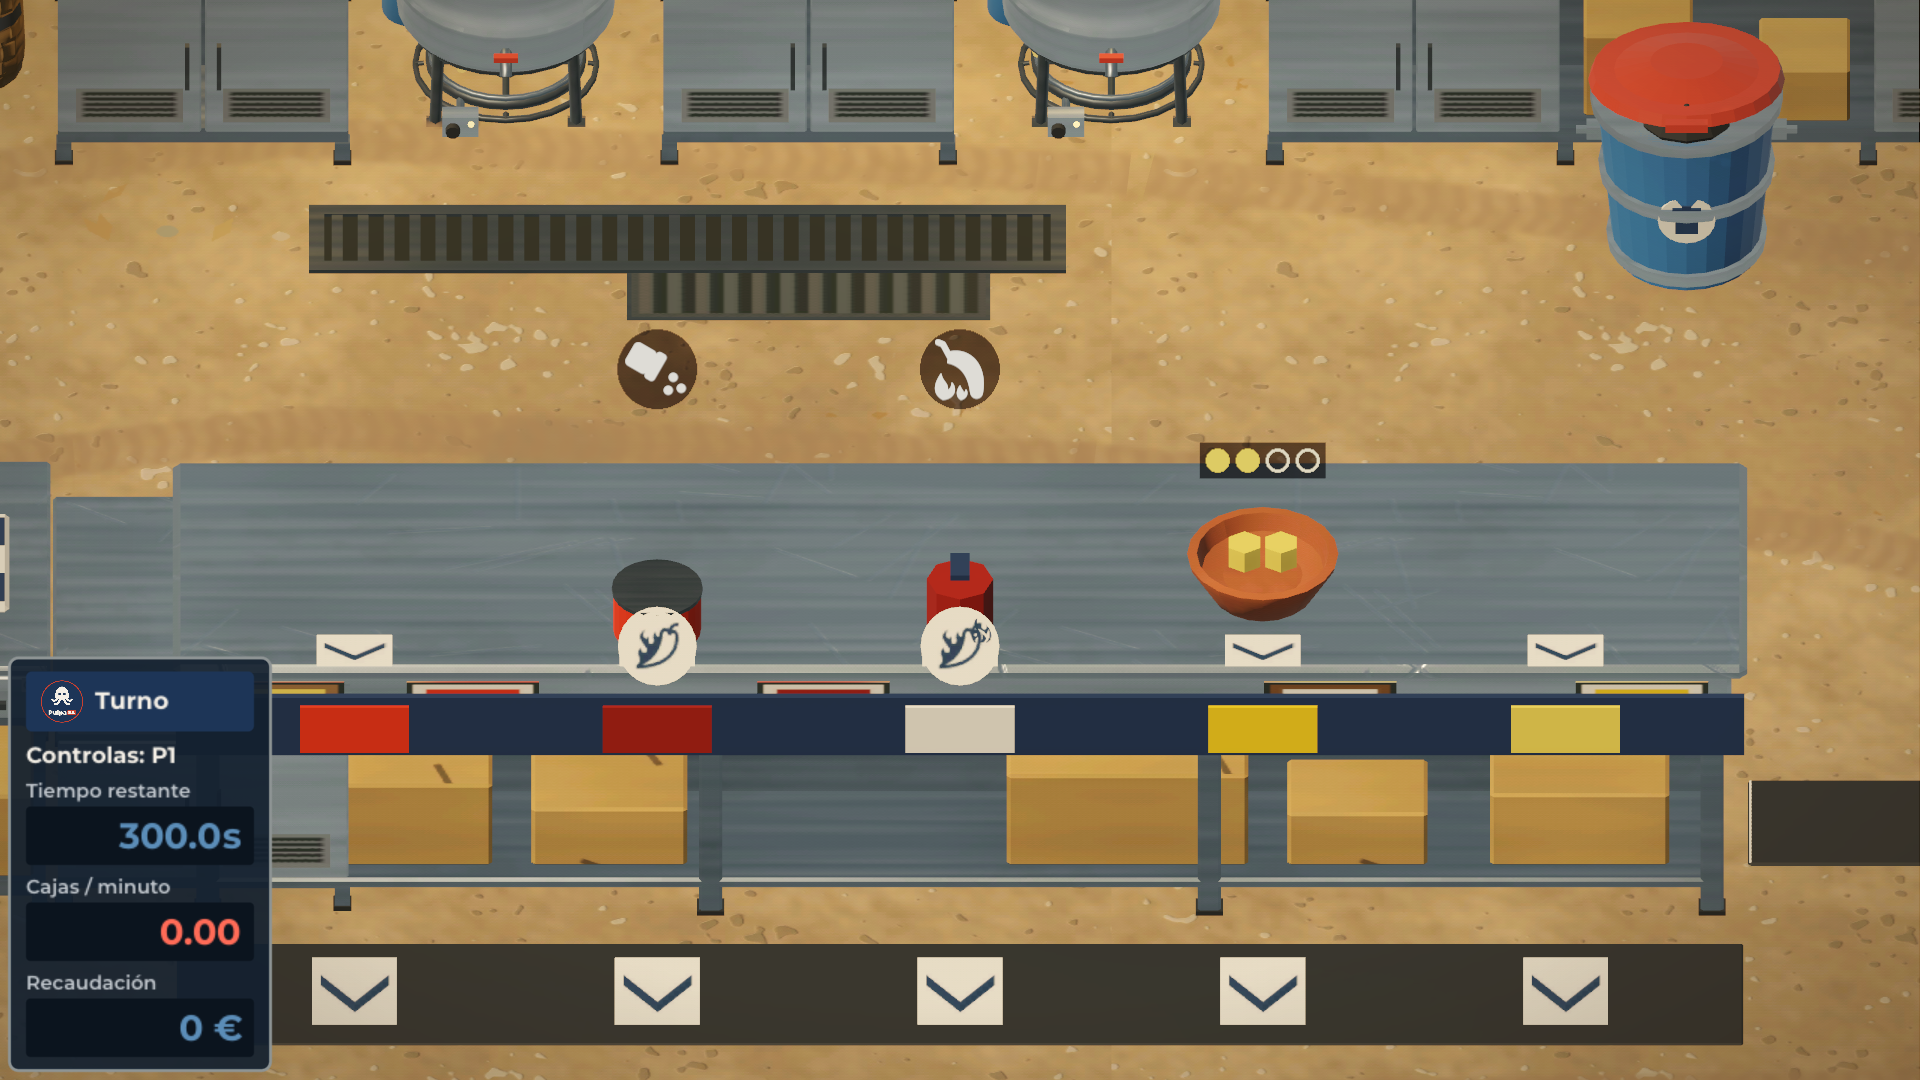
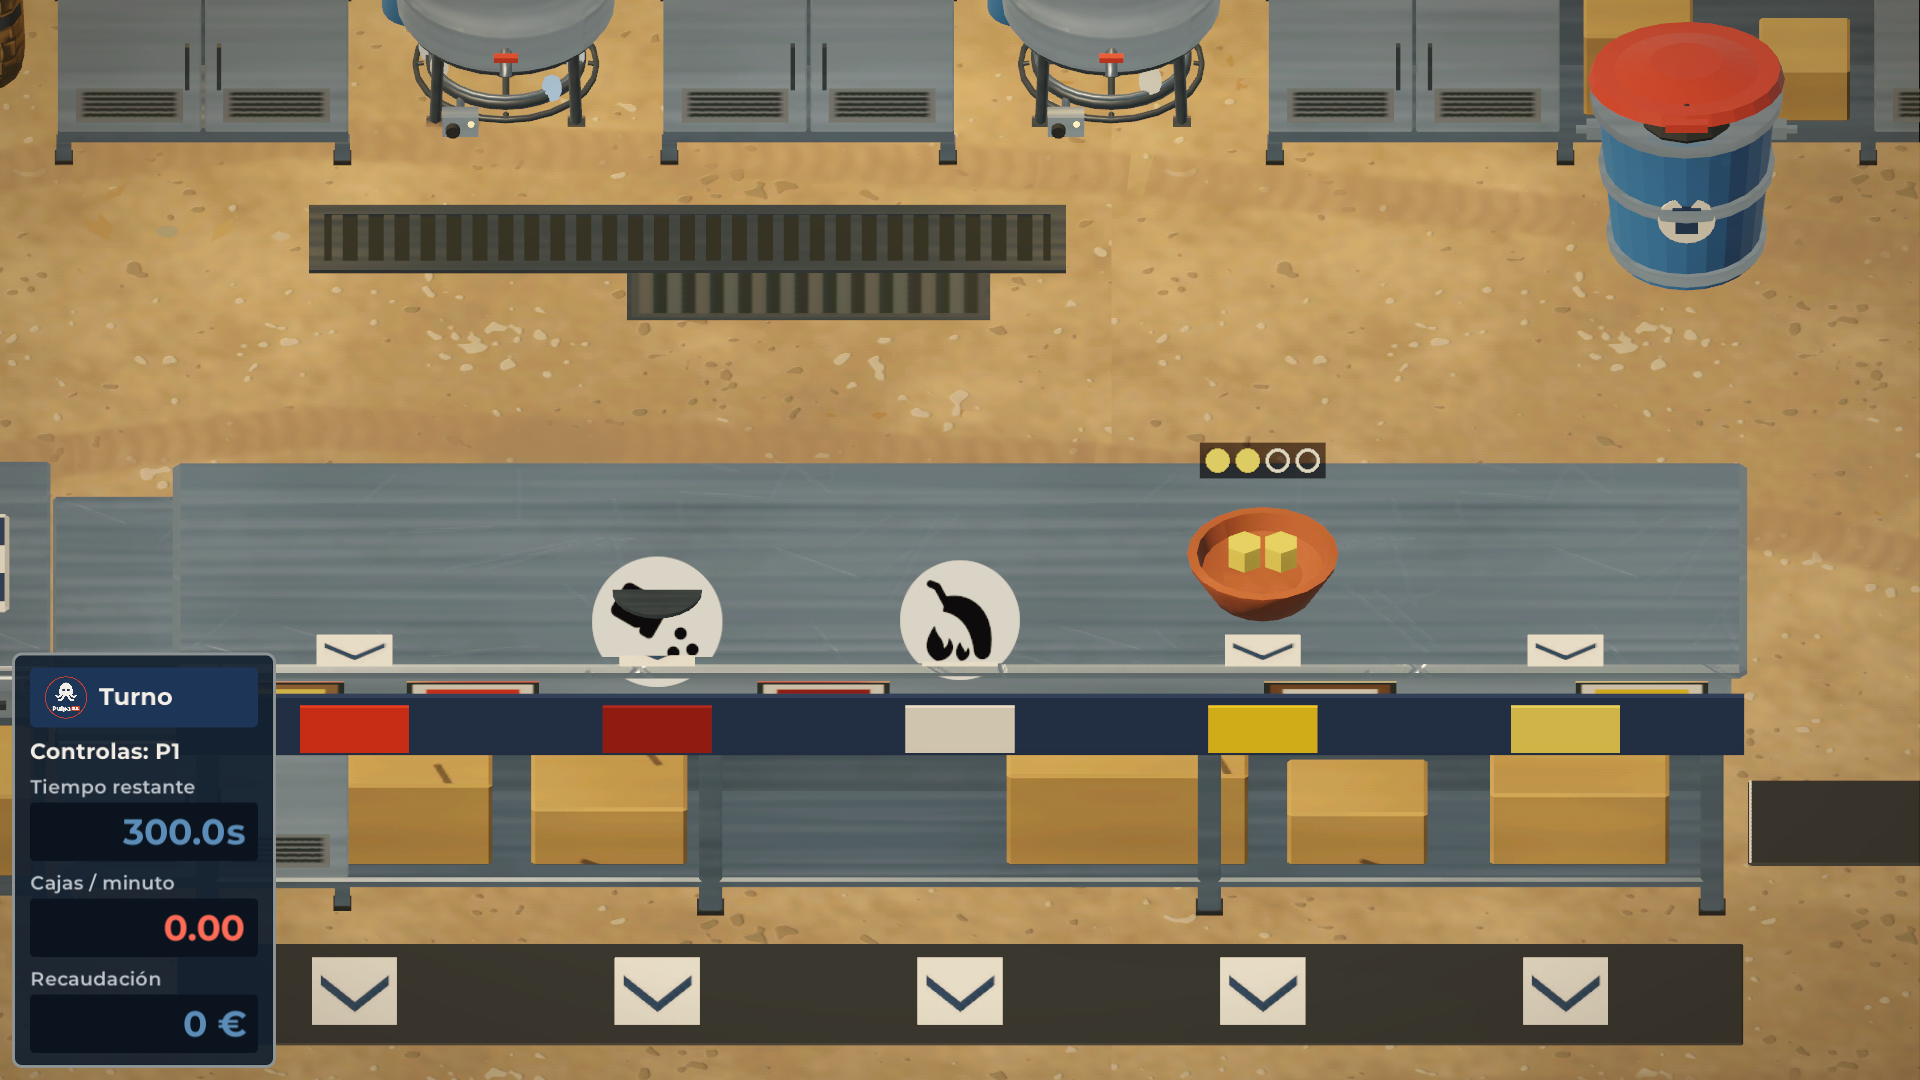
feat(PUL-126): revisión (icono propio en el frontal del dispensador, hot_mark a la llama, aserciones transitorias)

diff --git a/docs/backlog/PUL-126-verbo-en-la-estacion-de-condimentos-y-cuenco-que-s.md b/docs/backlog/PUL-126-verbo-en-la-estacion-de-condimentos-y-cuenco-que-s.md
@@ -43,9 +43,9 @@ ADR-006 §4.1, `signals.md`, `scene-tree.md` §9). Partición original y notas d
 ## Plan
 Ficheros (todos en `owns` / `touches_scenes`):
 - `resources/seasoning_data.gd`: `@export var verb: StringName`. `data/seasonings/*.tres`: `verb` (`season_sweet`, `season_hot`, `cachelos`); `icon` de dulce y picante = `icon_verb_season_sweet.svg` / `icon_verb_season_hot.svg`.
-- `data/config/box_badges.tres`: `hot_mark` = `icon_verb_season_hot.svg` (pendiente heredado).
+- `data/config/box_badges.tres`: `hot_mark` se queda en la llama `small-fire.svg` (decisión del producer: el icono propio ya distingue; la llama es acento).
 - `resources/seasoning_station_data.gd` + `data/config/seasoning_station.tres`: baja `toggle_guard`; alta de los datos del medidor (`stock_notch_px` 24, hueco, contorno, colores, opacidad de la placa).
-- `entities/stations/seasoning_dispenser.gd`: `_resolve` → `ActionRules.for_dispenser`; `get_action_hint`; `can_interact` = `is_target()`; `interact` ejecuta la rama del hint (`OK` aplica y gesto, `BLOCKED` emite `rejected` y consume, `NONE` `false`); `is_reachable_from` = solo el lado.
+- `entities/stations/seasoning_dispenser.gd`: placa con `seasoning.icon` sobre el cartel baked del frontal (se oculta el cartel `seasoning_signs`); `_resolve` → `ActionRules.for_dispenser`; `get_action_hint`; `can_interact` = `is_target()`; `interact` ejecuta la rama del hint (`OK` aplica y gesto, `BLOCKED` emite `rejected` y consume, `NONE` `false`); `is_reachable_from` = solo el lado.
 - `entities/stations/cachelos_bowl.gd` + `cachelos_bowl.tscn`: `_resolve` → `ActionRules.for_bowl`; solo pone (`Box.apply_seasoning`), repone si `stock + 2 <= 4`; sin `_toggle`, `toggle_guard` ni reloj; `%StockMeter` (`Sprite3D` billboard, textura generada por `build_meter_image`); `stock` con setter que refresca modelo y medidor.
 - Señales: ninguna nueva ni cambiada. `rejected(SeasoningRules.Rejection)` local sigue (dispensador: `BOX_NOT_FULL`, `ALREADY_APPLIED`; cuenco: además `BOWL_EMPTY`, `BOWL_FULL`). Sin cues de error en estas entidades (los da el jugador, ADR-003 §11.4).
 Tests:
@@ -58,7 +58,7 @@ Tests:
 ## Evidence
 - `bash tools/verify.sh` completo en verde (981 tests GUT, 0 fallos; gdformat, gdlint, import, smoke).
 - Capturas (1920×1080, cámara real de `level_01`; `docs/evidence/PUL-126/capture.gd` las regenera):
-  - `station_dispensers_and_meter.png`: estación con el cuenco a 2 raciones (4 muescas, 2 llenas) y el icono propio de cada aliño (pimentonera, guindilla) sobre su dispensador. El prompt del mundo es PUL-127: el icono flotante lo coloca el script de captura solo para enseñarlo.
+  - `station_dispensers_and_meter.png`: estación con el cuenco a 2 raciones (4 muescas, 2 llenas) e icono propio de cada aliño (pimentonera, guindilla) en el frontal de su dispensador.
   - `bowl_stock_0.png` … `bowl_stock_4.png`: el medidor con 0…4 raciones.
   - `box_badges_sweet_hot.png` y `box_badges_sweet_hot_zoom.png` (recorte ×4): pegatinas de la caja dulce, picante y dulce + cachelos.
   - `tickets_stickers.png` (ticket ×3): pegatina dulce (pimentonera) y picante (guindilla) en las cuatro comandas.
@@ -66,4 +66,5 @@ Tests:
   - `seasoning_station.gd` (fuera de `owns`, PUL-131) sigue reproduciendo `season_error` al oír `rejected`; el fin del cue de error en estaciones llega con el montaje. Los tests de esta ficha que lo ven (`test_ac5_*`, `test_audio_ac7_unfilled_*`) no cambian de comportamiento.
   - `CachelosBowl.clock` se queda como `Callable` vacío en desuso (sin efecto) porque `test_kitchen_flow`, `test_m2_flow` y `test_parity_smoke` (fuera de `owns`, PUL-131) todavía lo asignan; PUL-131 lo retira con ellos. `Box.toggle_seasoning` no se toca (`box.gd` es de PUL-131): ya no lo llama nadie en `entities/`.
   - `is_reachable_from` pasa a ser solo el filtro de lado (la mano la decide el hint), como fija la columna `reachable` del fixture: dispensador, solo lado; cuenco, solo lado con caja en la mano.
-  - `hot_mark` apunta a la guindilla (`icon_verb_season_hot.svg`) como pedía el pendiente heredado: en la pegatina picante el icono y la marca son el mismo glifo (se ve doblado en la esquina). Volver a la llama `small-fire.svg` es un cambio de una línea en `box_badges.tres`.
+  - `hot_mark` se queda en la llama (`small-fire.svg`) por decisión del producer; el icono propio de cada aliño va en el disco de la pegatina.
+  - El `.glb` trae la misma guindilla en los dos dispensadores: `seasoning_dispenser.gd` tapa ese cartel y pone una placa con `seasoning.icon` (sin tocar el `.glb`).
